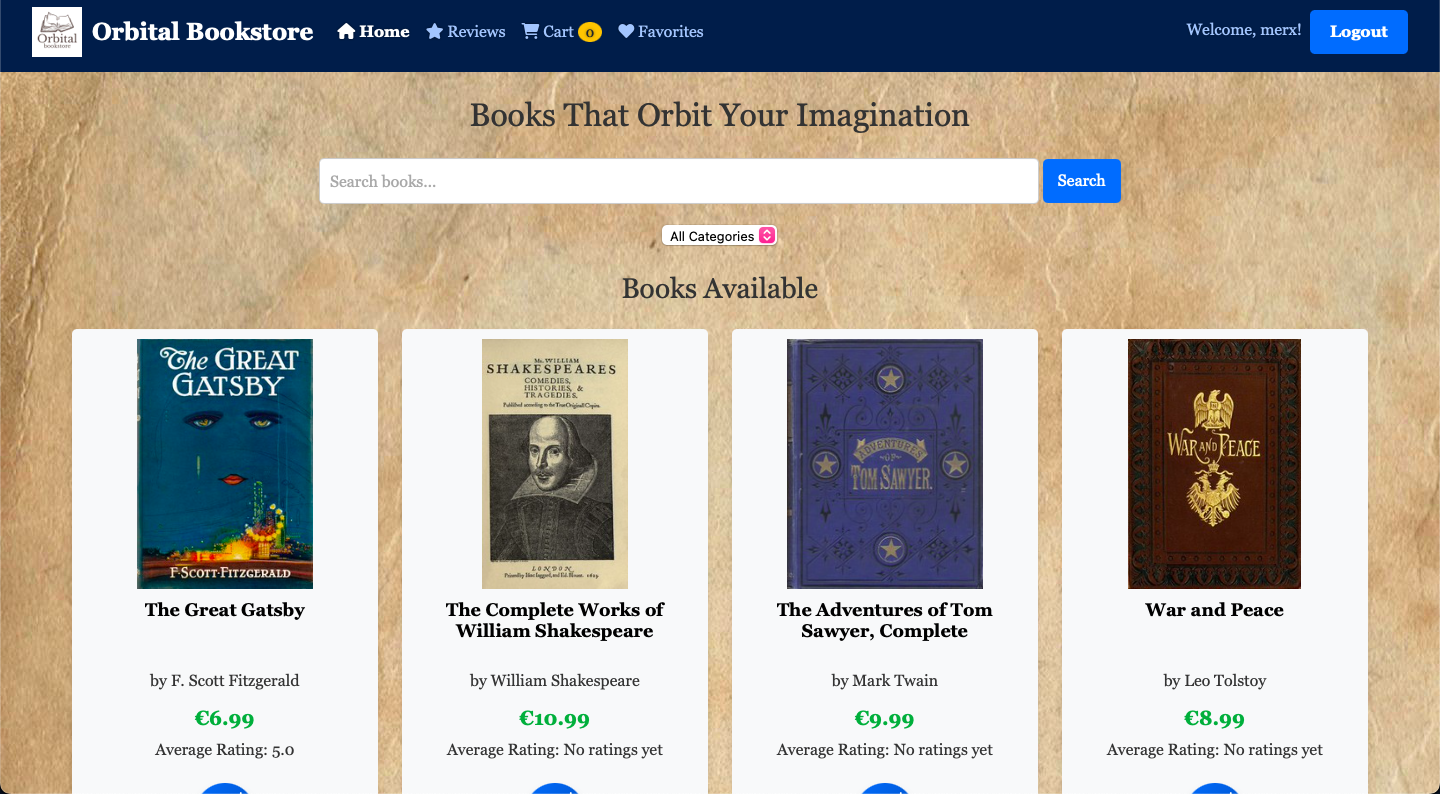
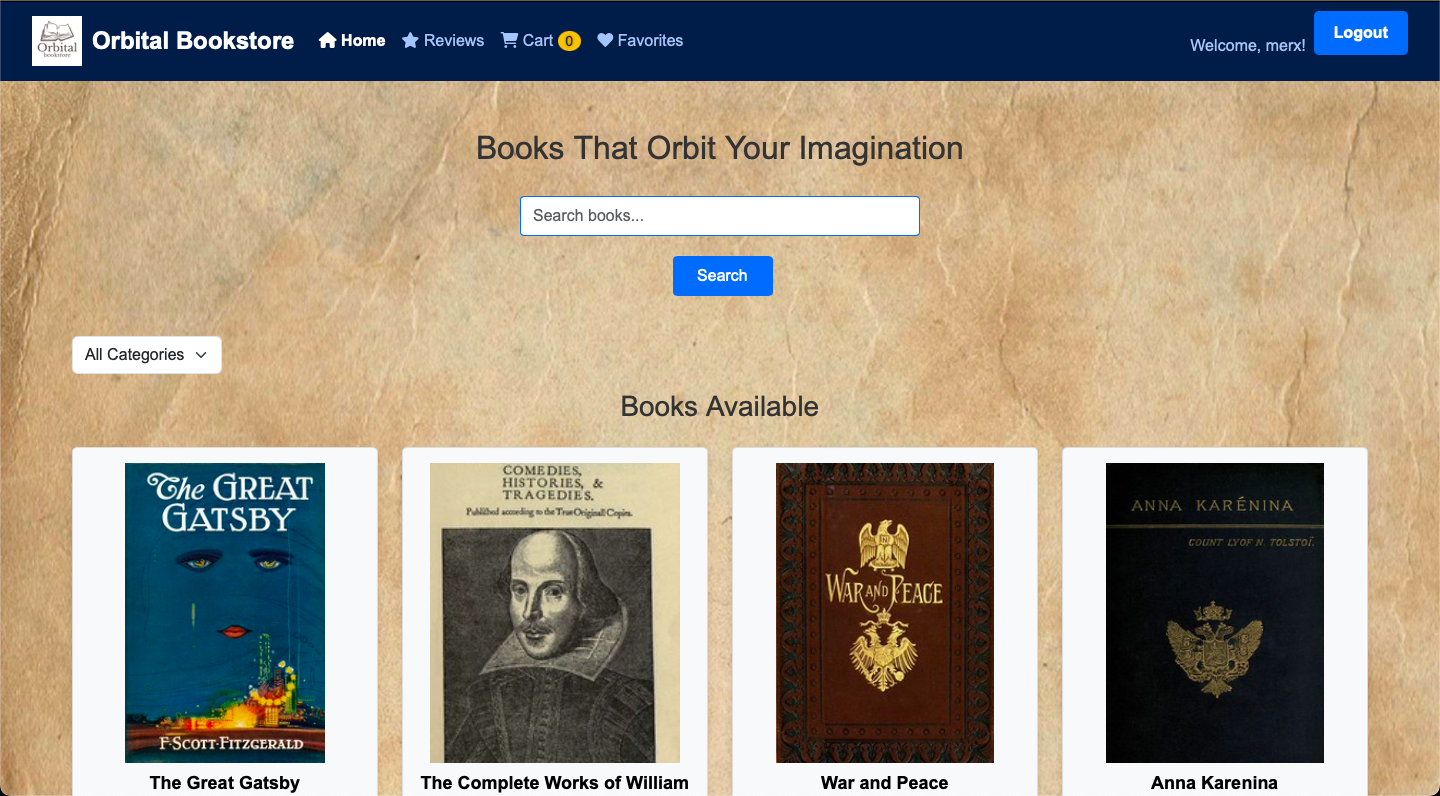
Final touches

diff --git a/store/templates/store/home.html b/store/templates/store/home.html
@@ -1,15 +1,4 @@
 {% load static %}
-<!DOCTYPE html>
-<html lang="en">
-<head>
-    <meta charset="UTF-8">
-    <meta name="viewport" content="width=device-width, initial-scale=1.0">
-    <title>Orbital Bookstore - Home</title>
-    <!-- Bootstrap CSS -->
-    <link href="https://cdn.jsdelivr.net/npm/bootstrap@5.3.0/dist/css/bootstrap.min.css" rel="stylesheet">
-    <link rel="stylesheet" href="{% static 'css/styles.css' %}">
-    <link rel="stylesheet" href="https://cdnjs.cloudflare.com/ajax/libs/font-awesome/6.0.0-beta3/css/all.min.css">
-</head>
 <body>
     {% include 'store/_navbar.html' %}
 
@@ -17,17 +6,17 @@
         <h2 class="text-center my-4">Books That Orbit Your Imagination</h2>
 
         <div class="row mb-4">
-            <div class="col-md-12 text-center"> <!-- Centering Container -->
-                <div class="search-category-container"> <!-- Flex container for search and categories -->
-                    <form method="GET" action="{% url 'home' %}" class="d-flex justify-content-center align-items-center"> <!-- added align-items-center -->
-                        <input type="text" name="search-bar" class="form-control search-bar" value="{{ request.GET.q }}" placeholder="Search books...">
+            <div class="col-md-12 text-center">
+                <div class="search-category-container">
+                    <form method="GET" action="{% url 'home' %}" class="d-flex justify-content-center align-items-center">
+                        <input type="text" name="search_bar" class="form-control search-bar" value="{{ request.GET.search_bar }}" placeholder="Search books...">
                         <button class="search-button">Search</button>
                     </form>
                 </div>
             </div>
         </div>
 
-        <div class="category-filter"> <!-- Category Filter Section -->
+        <div class="category-filter">
             <form method="GET" action="{% url 'home' %}">
                 <select name="category" onchange="this.form.submit()" class="form-select">
                     <option value="">All Categories</option>
@@ -40,11 +29,10 @@
             </form>
         </div>
 
-        <!-- Book List -->
         <h3 class="text-center mb-4">Books Available</h3>
         <div class="row">
             {% for book in books %}
-            <div class="col-md-3"> <!-- Book Item -->
+            <div class="col-md-3">
                 <div class="book-item">
                     <a href="{% url 'book_detail' book.id %}">
                         <img src="{{ book.cover_art }}" alt="{{ book.title }} Cover Art" class="book-cover img-fluid">
@@ -69,10 +57,9 @@
                 </div>
             </div>
             {% endfor %}
-        </div> <!-- row -->
-    </div> <!-- container -->
+        </div>
+    </div>
 
-    <!-- Weather Widget -->
     <div class="widget">
         <div id="ww_4b239e0ebbb27" v='1.3' loc='auto' a='{"t":"horizontal","lang":"en","sl_lpl":1,"ids":[],
         "font":"Arial","sl_ics":"one_a","sl_sot":"celsius","cl_bkg":"image","cl_font":"#FFFFFF",
@@ -83,15 +70,6 @@
         </div>
     </div>
 
-    <!-- Bootstrap JS -->
     <script src="https://cdn.jsdelivr.net/npm/bootstrap@5.3.0/dist/js/bootstrap.bundle.min.js"></script>
-    <script>
-        (function() {
-            var script = document.createElement('script');
-            script.async = true;
-            script.src = 'https://app3.weatherwidget.org/js/?id=ww_4b239e0ebbb27';
-            document.body.appendChild(script);
-        })();
-    </script>
+    <script src="{% static 'js/scripts.js' %}" defer></script>
 </body>
-</html>

diff --git a/store/templates/store/_navbar.html b/store/templates/store/_navbar.html
@@ -5,7 +5,6 @@
     <meta charset="UTF-8">
     <meta name="viewport" content="width=device-width, initial-scale=1.0">
     <title>Orbital Bookstore</title>
-    <!-- Bootstrap CSS -->
     <link href="https://cdn.jsdelivr.net/npm/bootstrap@5.3.0-alpha1/dist/css/bootstrap.min.css" rel="stylesheet" />
     <link rel="stylesheet" href="{% static 'css/styles.css' %}">
     <link rel="stylesheet" href="https://cdnjs.cloudflare.com/ajax/libs/font-awesome/6.0.0-beta3/css/all.min.css">
@@ -14,7 +13,6 @@
 
 <nav class="navbar navbar-expand-lg">
     <div class="container-fluid">
-        <!-- Logo -->
         <a class="navbar-brand" href="{% url 'home' %}">
             <img src="{% static 'images/logo.jpg' %}" alt="Orbital Bookstore Logo" style="max-height: 50px;">
             Orbital Bookstore
@@ -24,21 +22,18 @@
         </button>
         <div class="collapse navbar-collapse" id="navbarNav">
             <ul class="navbar-nav me-auto">
-                <!-- Home Link with Icon -->
                 <li class="nav-item">
                     <a class="nav-link {% if request.resolver_match.url_name == 'home' %}active{% endif %}" href="{% url 'home' %}">
                         <i class="fas fa-home"></i> Home
                     </a>
                 </li>
 
-                <!-- Reviews Link with Icon -->
                 <li class="nav-item">
                     <a class="nav-link {% if request.resolver_match.url_name == 'view_reviews' %}active{% endif %}" href="{% url 'view_reviews' %}">
                         <i class="fas fa-star"></i> Reviews
                     </a>
                 </li>
 
-                <!-- Cart Link with Icon -->
                 {% if user.is_authenticated %}
                 <li class="nav-item">
                     <a class="nav-link {% if request.resolver_match.url_name == 'view_cart' %}active{% endif %}" href="{% url 'view_cart' %}">
@@ -46,7 +41,6 @@
                     </a>
                 </li>
 
-                <!-- Favorites Link with Icon -->
                 <li class="nav-item">
                     <a class="nav-link {% if request.resolver_match.url_name == 'view_favorites' %}active{% endif %}" href="{% url 'view_favorites' %}">
                         <i class="fas fa-heart"></i> Favorites
@@ -54,7 +48,7 @@
                 </li>
                 {% endif %}
             </ul>
-            <ul class="navbar-nav ms-auto align-items-center"> <!-- Flexbox alignment here -->
+            <ul class="navbar-nav ms-auto align-items-center">
                 {% if user.is_authenticated %}
                 <li class="nav-item">
                     <span class="nav-link welcome-message">Welcome, {{ user.username }}!</span>
@@ -78,7 +72,6 @@
     </div>
 </nav>
 
-<!-- Bootstrap JS -->
 <script src="https://cdn.jsdelivr.net/npm/bootstrap@5.3.0-alpha1/dist/js/bootstrap.bundle.min.js"></script>
 </body>
 </html>

diff --git a/store/templates/store/reviews.html b/store/templates/store/reviews.html
@@ -12,25 +12,25 @@
     {% include 'store/_navbar.html' %}
 
     <div class="page-wrapper">
-        <div class="container mt-5"> <!-- Added margin-top for spacing -->
-            <h1 class="mb-4">All Reviews</h1> <!-- Added margin-bottom for spacing -->
+        <div class="container mt-5">
+            <h1 class="mb-4">All Reviews</h1>
 
             {% if reviews %}
                 <div class="row">
                     {% for review in reviews %}
-                        <div class="col-md-4 mb-4"> <!-- Responsive column -->
-                            <div class="review border rounded p-3"> <!-- Added border and padding -->
+                        <div class="col-md-4 mb-4">
+                            <div class="review border rounded p-3">
                                 <div class="review-heading mb-2">
                                     <a href="{% url 'book_detail' review.book.id %}" class="book-link custom-review-link">
-                                        <strong>{{ review.book.title }}</strong> <!-- Made the title bold -->
+                                        <strong>{{ review.book.title }}</strong>
                                     </a>
                                 </div>
 
-                                <div class="review-user text-muted"> <!-- Changed to text-muted for user -->
+                                <div class="review-user text-muted">
                                     by {{ review.user.username }}
                                 </div>
 
-                                <p class="rating">Rating: <strong>{{ review.rating }}</strong></p> <!-- Made rating bold -->
+                                <p class="rating">Rating: <strong>{{ review.rating }}</strong></p>
 
                                 <p>{{ review.review_text }}</p>
                             </div>
@@ -41,12 +41,12 @@
                 <p>No reviews available yet.</p>
             {% endif %}
 
-            <div class="back-to-home mt-4"> <!-- Added margin-top for spacing -->
-                <a href="{% url 'home' %}" class="btn btn-primary">Back to Home</a> <!-- Styled button -->
+            <div class="back-to-home mt-4">
+                <a href="{% url 'home' %}" class="btn btn-primary">Back to Home</a>
             </div>
         </div>
     </div>
 
-    <script src="https://cdn.jsdelivr.net/npm/bootstrap@5.3.0/dist/js/bootstrap.bundle.min.js"></script> <!-- Include Bootstrap JS -->
+    <script src="https://cdn.jsdelivr.net/npm/bootstrap@5.3.0/dist/js/bootstrap.bundle.min.js"></script>
 </body>
 </html>

diff --git a/store/templates/store/checkout.html b/store/templates/store/checkout.html
@@ -5,7 +5,7 @@
     <meta charset="UTF-8">
     <meta name="viewport" content="width=device-width, initial-scale=1.0">
     <title>Checkout</title>
-    <!-- Bootstrap CSS -->
+
     <link href="https://cdn.jsdelivr.net/npm/bootstrap@5.1.3/dist/css/bootstrap.min.css" rel="stylesheet">
     <link rel="stylesheet" href="{% static 'css/styles.css' %}">
 </head>
@@ -17,16 +17,16 @@
 
         <form method="POST" action="{% url 'checkout' %}">
             {% csrf_token %}
-            <!-- Order Summary -->
+
             <h3 class="mb-3">Order Summary</h3>
-            <ul class="list-group mb-4 col-md-6"> <!-- Shortened Order Summary with col-md-6 -->
+            <ul class="list-group mb-4 col-md-6">
                 {% for item in cart_items %}
                 <li class="list-group-item">{{ item.book.title }} - Quantity: {{ item.quantity }} - Price per item: €{{ item.book.price }}</li>
                 {% endfor %}
             </ul>
             <p class="col-md-6"><strong>Total Price:</strong> €{{ total_cost }}</p>
 
-            <!-- Payment Details -->
+
             <h3 class="mb-3">Payment Details</h3>
             <div class="mb-3 col-md-6"> <!-- Added col-md-6 to shorten the input field -->
                 <label for="payment_method" class="form-label">Payment Method</label>
@@ -36,22 +36,19 @@
                 </select>
             </div>
 
-            <!-- Delivery Email -->
+
             <h3 class="mb-3">Delivery Email</h3>
-            <div class="mb-3 col-md-6"> <!-- Added col-md-6 to shorten the input field -->
+            <div class="mb-3 col-md-6">
                 <label for="delivery_email" class="form-label">Delivery Email</label>
                 <input type="email" id="delivery_email" name="email" value="{{ request.user.email }}" class="form-control" required>
             </div>
 
-            <!-- Submit Button -->
             <button type="submit" class="btn btn-success">Place Order</button>
         </form>
 
-        <!-- Back to Cart Link -->
         <a href="{% url 'view_cart' %}" class="btn btn-link mt-3">Back to Cart</a>
     </div>
 
-    <!-- Bootstrap JS -->
     <script src="https://cdn.jsdelivr.net/npm/bootstrap@5.1.3/dist/js/bootstrap.bundle.min.js"></script>
 </body>
 </html>

diff --git a/store/templates/store/cart.html b/store/templates/store/cart.html
@@ -6,7 +6,6 @@
     <meta charset="UTF-8">
     <meta name="viewport" content="width=device-width, initial-scale=1.0">
     <title>Your Cart</title>
-    <!-- Bootstrap CSS -->
     <link href="https://cdn.jsdelivr.net/npm/bootstrap@5.1.3/dist/css/bootstrap.min.css" rel="stylesheet">
     <link rel="stylesheet" href="{% static 'css/styles.css' %}">
     <link rel="stylesheet" href="https://cdnjs.cloudflare.com/ajax/libs/font-awesome/6.0.0-beta3/css/all.min.css">
@@ -49,9 +48,7 @@
                     <i class="fas fa-shopping-cart"></i> <strong>Total Cart Value:</strong> €{{ cart.total_cost }}
                 </p>
                 <div class="d-flex">
-                    <!-- Continue Shopping Button -->
                     <a href="{% url 'home' %}" class="btn btn-primary me-2">Continue Shopping</a>
-                    <!-- Proceed to Checkout Button -->
                     <form method="post" action="{% url 'checkout' %}" class="d-inline">
                         {% csrf_token %}
                         <button type="submit" class="btn btn-success">Proceed to Checkout</button>
@@ -65,7 +62,6 @@
         </div>
     </div>
 
-    <!-- Bootstrap JS -->
     <script src="https://cdn.jsdelivr.net/npm/bootstrap@5.1.3/dist/js/bootstrap.bundle.min.js"></script>
 </body>
 </html>

diff --git a/store/templates/store/order_success.html b/store/templates/store/order_success.html
@@ -5,8 +5,6 @@
     <meta charset="UTF-8">
     <meta name="viewport" content="width=device-width, initial-scale=1.0">
     <title>Order Confirmation</title>
-    <!-- Bootstrap CSS -->
-    <link href="https://cdn.jsdelivr.net/npm/bootstrap@5.1.3/dist/css/bootstrap.min.css" rel="stylesheet">
     <link rel="stylesheet" href="{% static 'css/styles.css' %}">
 </head>
 <body>
@@ -21,7 +19,7 @@
         <ul class="list-group list-group-flush mb-4 custom-list">
             {% for item in order_items %}
                 <li>
-                    <!-- Debugging Output -->
+
                     <p>Book: {{ item.book.title }}, Download Link: {{ item.book.download_link }}</p>
 
                     {% if item.book.download_link %}
@@ -41,8 +39,5 @@
 
         <a href="{% url 'home' %}" class="btn btn-primary mt-4 custom-button">Continue Shopping</a>
     </div>
-
-    <!-- Bootstrap JS -->
-    <script src="https://cdn.jsdelivr.net/npm/bootstrap@5.1.3/dist/js/bootstrap.bundle.min.js"></script>
 </body>
 </html>

diff --git a/store/templates/store/book_detail.html b/store/templates/store/book_detail.html
@@ -32,11 +32,11 @@
                         {% csrf_token %}
                         <button type="submit" class="btn btn-favorite" aria-label="Lisa lemmikutesse">
                             {% if is_favorite %}
-                                <i class="fas fa-heart heart-icon favorite"></i> <!-- Solid red heart for favorite -->
+                                <i class="fas fa-heart heart-icon favorite"></i>
                             {% else %}
-                                <i class="far fa-heart heart-icon"></i> <!-- Empty heart for not favorite -->
+                                <i class="far fa-heart heart-icon"></i>
                             {% endif %}
-                            <span class="favorite-text">- Add to favorites</span> <!-- Lisatud tekst -->
+                            <span class="favorite-text">- Add to favorites</span>
                          </button>
                     </form>
 

diff --git a/store/templates/store/favorites.html b/store/templates/store/favorites.html
@@ -29,7 +29,7 @@
                                         <h5 class="card-title">{{ favorite.book.title }}</h5>
                                         <h6 class="card-subtitle mb-2 text-muted">by {{ favorite.book.author }}</h6>
                                         <p class="card-text">Price: €{{ favorite.book.price }}</p>
-                                        <!-- Delete Button -->
+
                                         <form method="POST" action="{% url 'delete_favorite' favorite.id %}">
                                             {% csrf_token %}
                                             <button type="submit" class="btn btn-danger custom-delete-btn">Remove</button>

diff --git a/static/css/styles.css b/static/css/styles.css
@@ -3,7 +3,7 @@ body {
     background-color: #fdf3e7;
     background-size: cover;
     color: #333;
-    font-family: 'Georgia', serif;
+    font-family: 'Lora', serif;
 }
 
 .input-group {
@@ -17,7 +17,6 @@ body {
     margin-bottom: 20px;
 }
 
-/* Navbar Styles */
 .navbar {
     background-color: #002147;
     padding: 10px 20px;
@@ -487,14 +486,6 @@ button:hover {
     cursor: pointer;
 }
 
-body {
-    background-color: #cbcfcc;
-    font-family: Arial, sans-serif;
-    margin: 0;
-    padding: 0;
-    position: relative;
-    min-height: 100vh;
-}
 
 .login-wrapper {
     background-color: #ffffff;

diff --git a/store/templates/store/logout.html b/store/templates/store/logout.html
@@ -1,11 +1,17 @@
+{% load static %}
 <!DOCTYPE html>
 <html lang="en">
 <head>
+    <meta charset="UTF-8">
+    <meta name="viewport" content="width=device-width, initial-scale=1.0">
     <title>Logout</title>
+    <link rel="stylesheet" href="{% static 'css/styles.css' %}">
 </head>
 <body>
 {% include 'store/_navbar.html' %}
-    <h2>You have been logged out.</h2>
-    <a href="{% url 'login' %}">Log in again</a>
+    <div class="logout-wrapper">
+        <h2>You have been logged out.</h2>
+        <a href="{% url 'login' %}">Log in again</a>
+    </div>
 </body>
 </html>

diff --git a/store/templates/store/login.html b/store/templates/store/login.html
@@ -5,11 +5,11 @@
     <meta charset="UTF-8">
     <meta name="viewport" content="width=device-width, initial-scale=1.0">
     <title>Login</title>
-    <link rel="stylesheet" href="{% static 'css/styles.css' %}"> <!-- Link CSS failile -->
+    <link rel="stylesheet" href="{% static 'css/styles.css' %}">
 </head>
 <body>
 {% include 'store/_navbar.html' %}
-    <div class="login-wrapper"> <!-- Muudetud klass -->
+    <div class="login-wrapper">
         <h1>Login</h1>
         <form method="post">
             {% csrf_token %}

diff --git a/static/js/scripts.js b/static/js/scripts.js
@@ -1,0 +1,6 @@
+document.addEventListener("DOMContentLoaded", function() {
+    var script = document.createElement('script');
+    script.async = true;
+    script.src = 'https://app3.weatherwidget.org/js/?id=ww_4b239e0ebbb27';
+    document.body.appendChild(script);
+});
